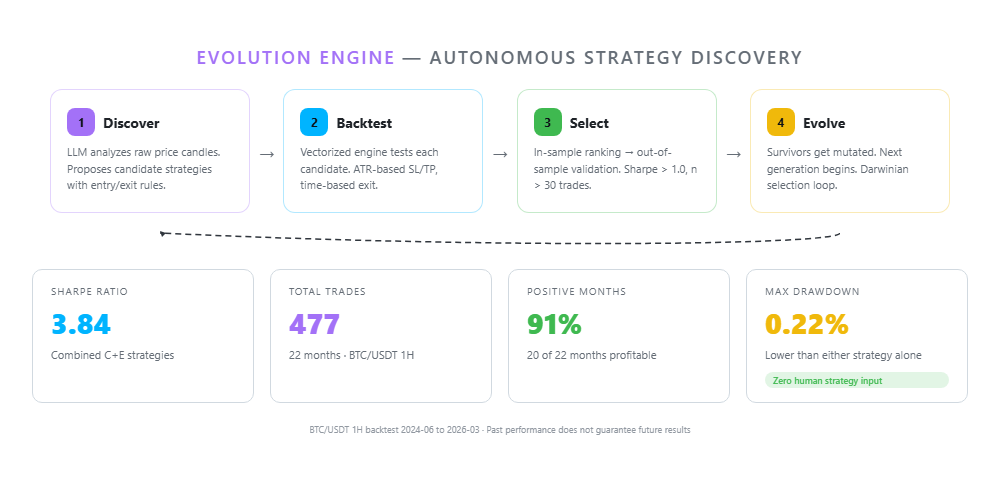
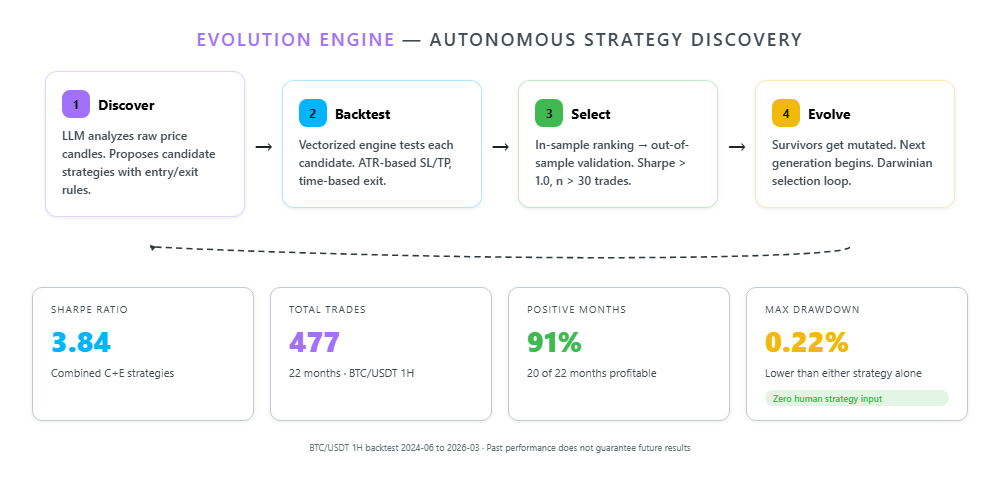
docs: fix diagram readability — bolder text, darker colors, clean arrows
- Text color #656d76 → #424a53 (much more readable)
- Title/heading color → #000000 (full black)
- Card borders thicker (1px → 1.5px) + darker (#c0c8d0)
- Card shadow added (box-shadow 0 1px 4px) for depth
- Arrow symbols bolder and larger (→ 32px font-weight 700)
- Evolution: replaced ugly dashed SVG loop with clean "↻ Repeat" label
- Description text bumped to 12px font-weight 500

diff --git a/assets/generate_evolution.html b/assets/generate_evolution.html
@@ -10,17 +10,17 @@
 body {
   width: 1000px; height: 480px; background: transparent;
   font-family: -apple-system, BlinkMacSystemFont, 'Segoe UI', Helvetica, Arial, sans-serif;
-  color: #1f2328; display: flex; flex-direction: column;
+  color: #000000; display: flex; flex-direction: column;
   align-items: center; justify-content: center; gap: 20px;
   overflow: hidden; padding: 32px;
 }
-h2 { font-size: 18px; font-weight: 600; color: #656d76; text-transform: uppercase; letter-spacing: 2px; }
+h2 { font-size: 18px; font-weight: 600; color: #424a53; text-transform: uppercase; letter-spacing: 2px; }
 h2 span { color: #a371f7; }
 
 .pipeline { display: flex; align-items: center; gap: 8px; }
 .step {
   width: 200px; border-radius: 12px; padding: 18px 16px;
-  background: #ffffff; border: 1px solid #d1d9e0;
+  background: #ffffff; box-shadow: 0 1px 4px rgba(0,0,0,0.08); border: 1.5px solid #c0c8d0;
   display: flex; flex-direction: column; gap: 8px;
 }
 .step-num {
@@ -32,7 +32,7 @@ h2 span { color: #a371f7; }
   font-size: 12px; font-weight: 700; color: #0d1117;
 }
 .step-title { font-size: 14px; font-weight: 700; }
-.step-desc { font-size: 11px; color: #656d76; line-height: 1.5; }
+.step-desc { font-size: 12px; color: #424a53; line-height: 1.5; font-weight: 500; }
 
 .b1 .step-badge { background: #a371f7; }
 .b2 .step-badge { background: #00b4ff; }
@@ -43,12 +43,16 @@ h2 span { color: #a371f7; }
 .b3 { border-color: rgba(63,185,80,0.3); }
 .b4 { border-color: rgba(240,185,11,0.3); }
 
-.arrow { color: #656d76; font-size: 20px; flex-shrink: 0; }
+.arrow { color: #1f2328; font-size: 24px; font-weight: 700; flex-shrink: 0; }
 .loop-arrow {
-  display: flex; align-items: center; gap: 4px;
-  color: #9198a1; font-size: 11px; margin-top: -4px;
+  display: flex; align-items: center; justify-content: center; gap: 8px;
+  margin-top: 2px;
 }
-.loop-arrow svg { width: 680px; height: 20px; }
+.loop-arrow svg { width: 700px; height: 28px; }
+.loop-label {
+  font-size: 11px; font-weight: 600; color: #424a53;
+  letter-spacing: 1px; text-transform: uppercase;
+}
 
 /* Results card */
 .results {
@@ -56,13 +60,13 @@ h2 span { color: #a371f7; }
   width: 100%;
 }
 .result-box {
-  flex: 1; background: #ffffff; border: 1px solid #d1d9e0;
+  flex: 1; background: #ffffff; box-shadow: 0 1px 4px rgba(0,0,0,0.08); border: 1.5px solid #c0c8d0;
   border-radius: 10px; padding: 14px 18px;
   display: flex; flex-direction: column; gap: 6px;
 }
-.result-label { font-size: 10px; color: #656d76; text-transform: uppercase; letter-spacing: 1px; }
+.result-label { font-size: 10px; color: #424a53; text-transform: uppercase; letter-spacing: 1px; }
 .result-value { font-size: 28px; font-weight: 800; }
-.result-detail { font-size: 11px; color: #656d76; }
+.result-detail { font-size: 11px; color: #424a53; }
 .v-blue { color: #00b4ff; }
 .v-green { color: #3fb950; }
 .v-purple { color: #a371f7; }
@@ -74,7 +78,7 @@ h2 span { color: #a371f7; }
   color: #3fb950; font-weight: 600; margin-top: 4px;
 }
 
-.disclaimer { font-size: 9px; color: #9198a1; text-align: center; }
+.disclaimer { font-size: 9px; color: #656d76; text-align: center; }
 </style></head>
 <body>
 

diff --git a/assets/generate_schema.html b/assets/generate_schema.html
@@ -21,7 +21,7 @@
     height: 630px;
     background: transparent;
     font-family: -apple-system, BlinkMacSystemFont, 'Segoe UI', Helvetica, Arial, sans-serif;
-    color: #1f2328;
+    color: #000000;
     display: flex;
     flex-direction: column;
     justify-content: center;
@@ -47,8 +47,8 @@
 
   .col-left {
     width: 220px;
-    background: #ffffff;
-    border: 1px solid #d1d9e0;
+    background: #ffffff; box-shadow: 0 1px 4px rgba(0,0,0,0.08);
+    border: 1.5px solid #c0c8d0;
     flex-shrink: 0;
   }
 
@@ -64,8 +64,8 @@
 
   .col-right {
     width: 220px;
-    background: #ffffff;
-    border: 1px solid #d1d9e0;
+    background: #ffffff; box-shadow: 0 1px 4px rgba(0,0,0,0.08);
+    border: 1.5px solid #c0c8d0;
     flex-shrink: 0;
   }
 
@@ -75,7 +75,7 @@
     font-weight: 600;
     text-transform: uppercase;
     letter-spacing: 1.5px;
-    color: #656d76;
+    color: #424a53;
     margin-bottom: 16px;
     text-align: center;
   }
@@ -96,7 +96,7 @@
     margin-bottom: 8px;
     background: transparent;
     border-radius: 8px;
-    border: 1px solid #d1d9e0;
+    border: 1.5px solid #c0c8d0;
     font-size: 13px;
     font-weight: 500;
   }
@@ -170,13 +170,13 @@
 
   .layer-desc {
     font-size: 11px;
-    color: #656d76;
+    color: #424a53;
   }
 
   /* === Arrows between layers === */
   .layer-arrow {
     text-align: center;
-    color: #656d76;
+    color: #424a53;
     font-size: 16px;
     margin: -6px 0;
     letter-spacing: 4px;
@@ -211,7 +211,7 @@
 
   .engine-sub {
     font-size: 10px;
-    color: #656d76;
+    color: #424a53;
     font-weight: 400;
     margin-top: 4px;
   }
@@ -249,7 +249,7 @@
   .top-title h1 {
     font-size: 24px;
     font-weight: 700;
-    color: #1f2328;
+    color: #000000;
     letter-spacing: -0.5px;
   }
 
@@ -259,7 +259,7 @@
 
   .top-title p {
     font-size: 13px;
-    color: #656d76;
+    color: #424a53;
     margin-top: 6px;
   }
 
@@ -268,12 +268,12 @@
     position: absolute;
     bottom: 16px;
     font-size: 11px;
-    color: #9198a1;
+    color: #656d76;
     letter-spacing: 0.5px;
   }
 
   .footer a {
-    color: #9198a1;
+    color: #656d76;
     text-decoration: none;
   }
 
@@ -289,13 +289,13 @@
     font-size: 10px;
     padding: 3px 10px;
     border-radius: 12px;
-    background: #ffffff;
-    border: 1px solid #d1d9e0;
-    color: #656d76;
+    background: #ffffff; box-shadow: 0 1px 4px rgba(0,0,0,0.08);
+    border: 1.5px solid #c0c8d0;
+    color: #424a53;
   }
 
   .stat strong {
-    color: #1f2328;
+    color: #000000;
   }
 </style>
 </head>

diff --git a/assets/generate_l1l2l3.html b/assets/generate_l1l2l3.html
@@ -10,17 +10,17 @@
 body {
   width: 1000px; height: 360px; background: transparent;
   font-family: -apple-system, BlinkMacSystemFont, 'Segoe UI', Helvetica, Arial, sans-serif;
-  color: #1f2328; display: flex; flex-direction: column;
+  color: #000000; display: flex; flex-direction: column;
   align-items: center; justify-content: center; gap: 24px;
   overflow: hidden; padding: 32px;
 }
-h2 { font-size: 16px; font-weight: 600; color: #656d76; text-transform: uppercase; letter-spacing: 2px; }
+h2 { font-size: 16px; font-weight: 600; color: #424a53; text-transform: uppercase; letter-spacing: 2px; }
 
 .pipeline { display: flex; align-items: stretch; gap: 12px; }
 
 .layer-card {
   width: 280px; border-radius: 14px; padding: 22px 20px;
-  background: #ffffff; display: flex; flex-direction: column; gap: 12px;
+  background: #ffffff; box-shadow: 0 1px 4px rgba(0,0,0,0.08); display: flex; flex-direction: column; gap: 12px;
 }
 
 .layer-header { display: flex; align-items: center; gap: 12px; }
@@ -30,8 +30,8 @@ h2 { font-size: 16px; font-weight: 600; color: #656d76; text-transform: uppercas
   font-size: 14px; font-weight: 800; color: #0d1117;
 }
 .layer-name { font-size: 16px; font-weight: 700; }
-.layer-subtitle { font-size: 11px; color: #656d76; font-weight: 500; }
-.layer-desc { font-size: 12px; color: #656d76; line-height: 1.6; }
+.layer-subtitle { font-size: 11px; color: #424a53; font-weight: 500; }
+.layer-desc { font-size: 12px; color: #424a53; line-height: 1.6; }
 
 .layer-tags { display: flex; flex-wrap: wrap; gap: 6px; }
 .tag {
@@ -54,7 +54,7 @@ h2 { font-size: 16px; font-weight: 600; color: #656d76; text-transform: uppercas
 .l3 .layer-badge { background: #3fb950; }
 .l3 .tag { background: rgba(63,185,80,0.1); color: #3fb950; border: 1px solid rgba(63,185,80,0.2); }
 
-.arrow { color: #656d76; font-size: 28px; display: flex; align-items: center; flex-shrink: 0; }
+.arrow { color: #1f2328; font-size: 32px; font-weight: 700; display: flex; align-items: center; flex-shrink: 0; }
 </style></head>
 <body>
 

diff --git a/assets/generate_owm.html b/assets/generate_owm.html
@@ -10,19 +10,19 @@
 body {
   width: 1000px; height: 420px; background: transparent;
   font-family: -apple-system, BlinkMacSystemFont, 'Segoe UI', Helvetica, Arial, sans-serif;
-  color: #1f2328; display: flex; flex-direction: column;
+  color: #000000; display: flex; flex-direction: column;
   align-items: center; justify-content: center; gap: 24px;
   overflow: hidden; padding: 32px;
 }
 h2 {
-  font-size: 18px; font-weight: 600; color: #656d76;
+  font-size: 18px; font-weight: 600; color: #424a53;
   text-transform: uppercase; letter-spacing: 2px;
 }
 h2 span { color: #00b4ff; }
 .cards { display: flex; gap: 12px; }
 .card {
   width: 180px; border-radius: 12px; padding: 20px 16px;
-  background: #ffffff; border: 1px solid #d1d9e0;
+  background: #ffffff; box-shadow: 0 1px 4px rgba(0,0,0,0.08); border: 1.5px solid #c0c8d0;
   display: flex; flex-direction: column; gap: 10px;
   transition: border-color 0.3s;
 }
@@ -32,11 +32,11 @@ h2 span { color: #00b4ff; }
   font-size: 18px; font-weight: 700;
 }
 .card-title { font-size: 14px; font-weight: 700; }
-.card-desc { font-size: 11px; color: #656d76; line-height: 1.5; }
+.card-desc { font-size: 12px; color: #424a53; line-height: 1.5; font-weight: 500; }
 .card-formula {
   font-size: 10px; font-family: 'SF Mono', 'Fira Code', monospace;
   padding: 6px 8px; border-radius: 6px; background: transparent;
-  color: #1a7f37; border: 1px solid #d1d9e0;
+  color: #1a7f37; border: 1.5px solid #c0c8d0;
 }
 
 /* Colors per factor */
@@ -51,7 +51,7 @@ h2 span { color: #00b4ff; }
 .c-a { border-color: rgba(249, 117, 131, 0.3); }
 .c-a .card-icon { background: rgba(249, 117, 131, 0.15); color: #f97583; }
 
-.footer { font-size: 10px; color: #9198a1; }
+.footer { font-size: 10px; color: #656d76; }
 </style></head>
 <body>
 

diff --git a/assets/generate_header.html b/assets/generate_header.html
@@ -35,11 +35,11 @@ body {
 .text-block { display: flex; flex-direction: column; gap: 4px; }
 .brand {
   font-size: 48px; font-weight: 800; letter-spacing: -2px;
-  color: #1f2328;
+  color: #000000;
 }
 .brand span { color: #00b4ff; }
 .tagline {
-  font-size: 16px; color: #656d76; letter-spacing: 1px; font-weight: 400;
+  font-size: 16px; color: #424a53; letter-spacing: 1px; font-weight: 400;
 }
 </style></head>
 <body>
